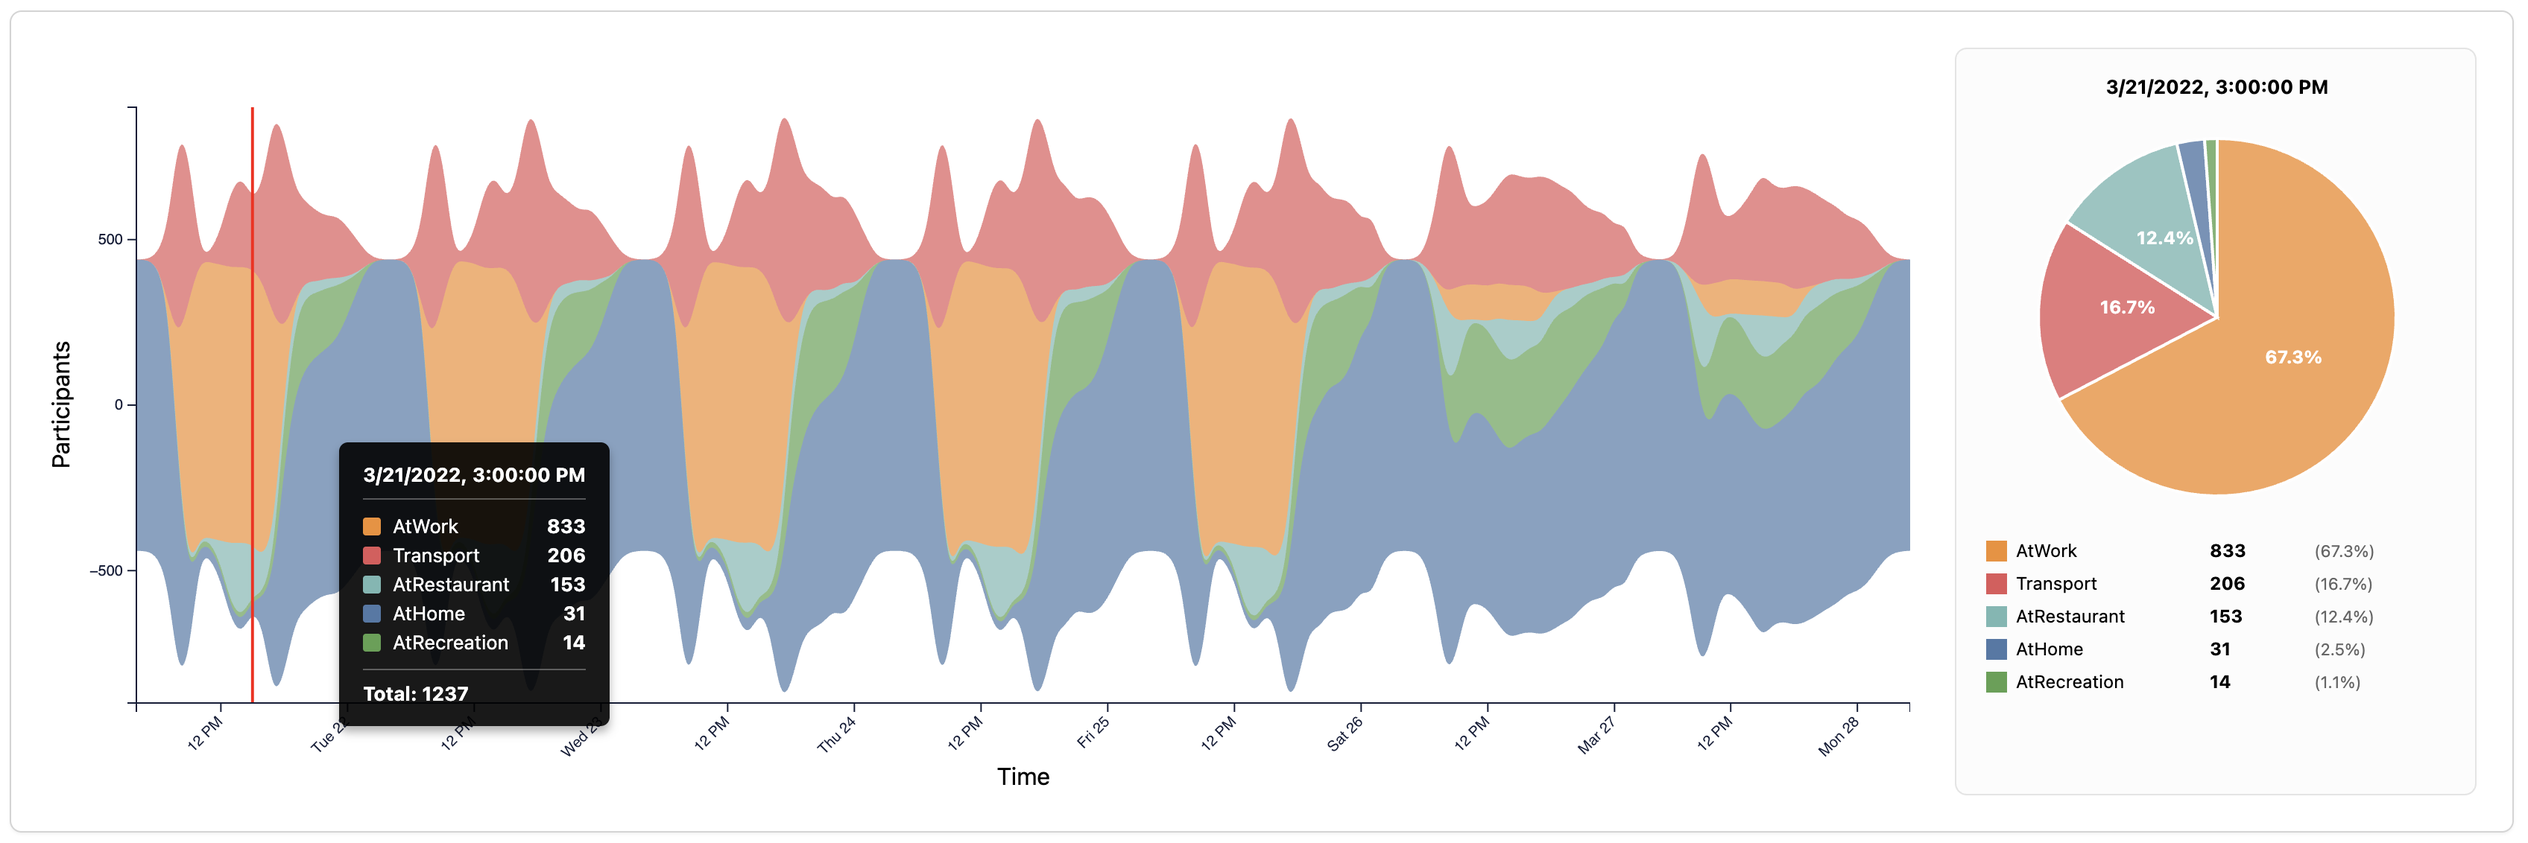
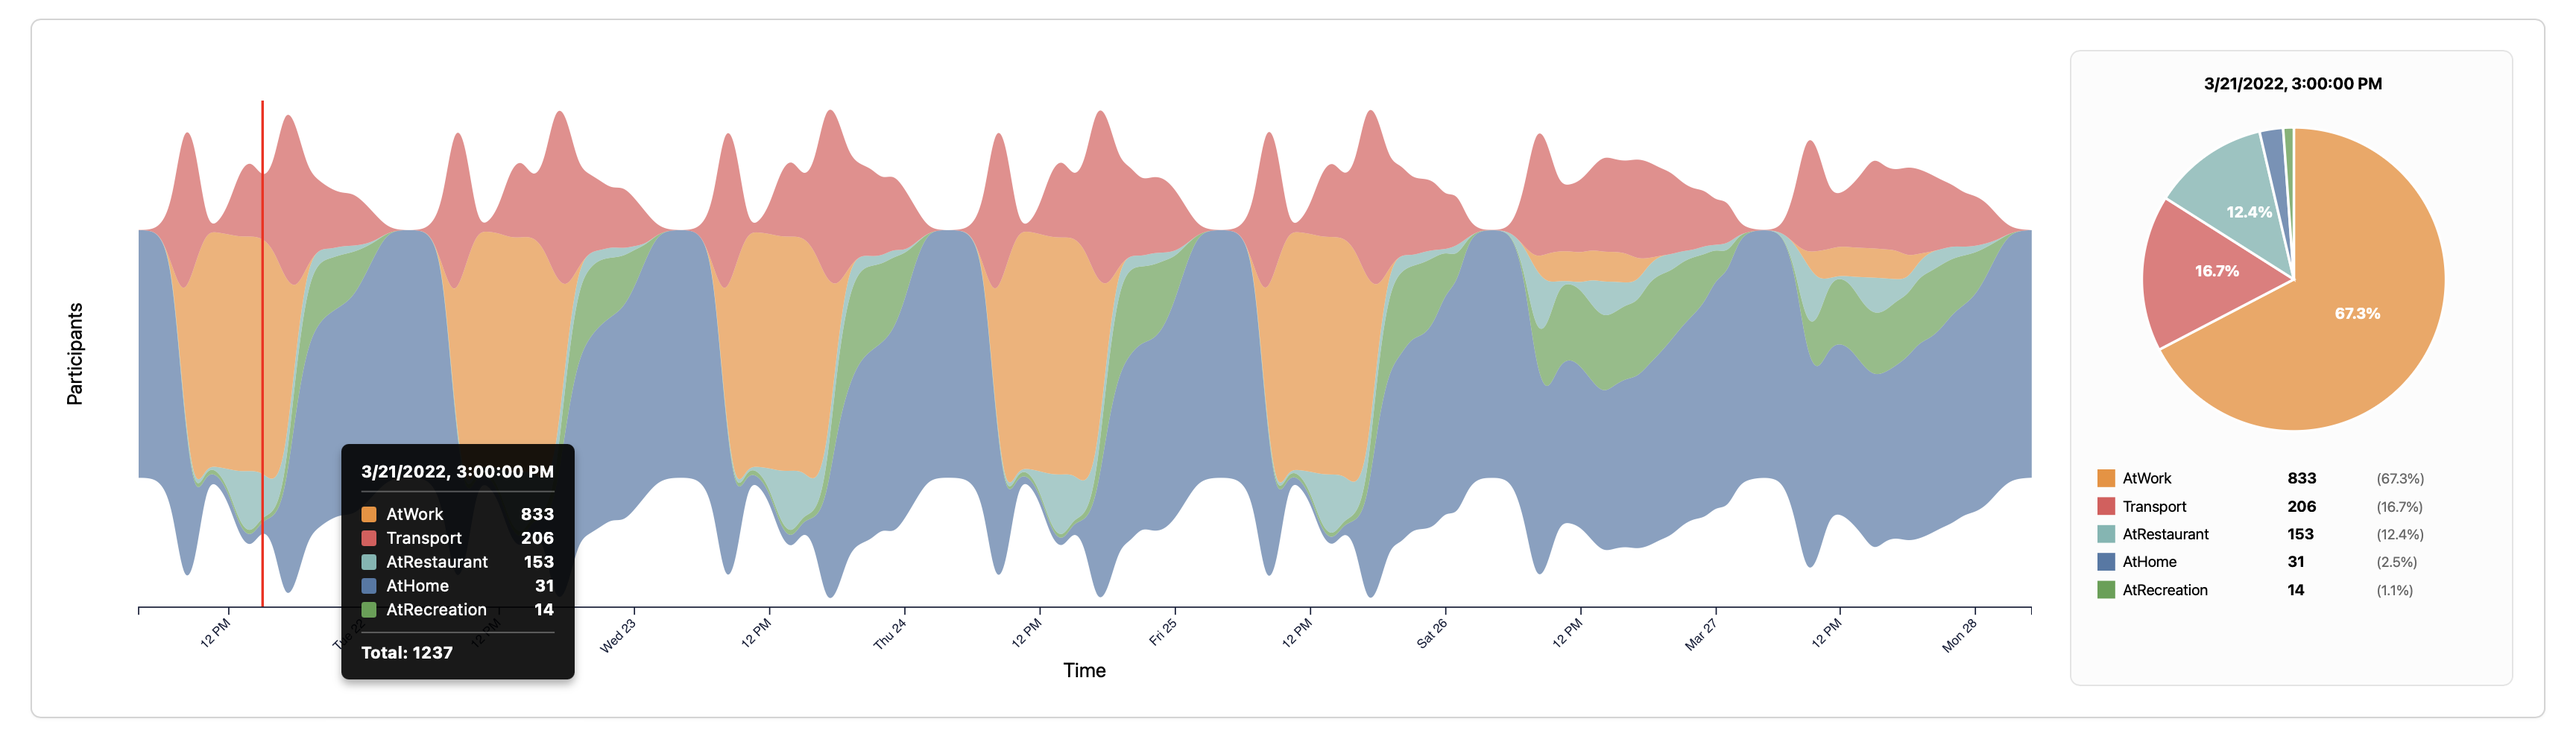
added images question 2

diff --git a/index.html b/index.html
@@ -65,6 +65,12 @@ a:visited {
     padding-bottom: 1pt;
     margin-bottom: 10pt;
 }
+
+.title {
+    font-weight: bold;
+    margin-top: 20pt;
+    margin-bottom: 10pt;
+}
 </style>
 </head>
 <body>
@@ -111,7 +117,7 @@ a:visited {
 
 <p class="calibri"><b>Questions</b></p>
 
-<p class="calibri"><b>1</b> - <span class="arial">Assuming the volunteers are representative of the city's population, characterize the distinct areas of the city that you identify. For each area you identify, provide your rationale and supporting data. Limit your response to 10 images and 500 words.</span></p>
+<p class="calibri title"><b>1</b> - <span class="arial">Assuming the volunteers are representative of the city's population, characterize the distinct areas of the city that you identify. For each area you identify, provide your rationale and supporting data. Limit your response to 10 images and 500 words.</span></p>
 
 <div class="indent">
 <p class="arial"><b>Overview</b></p>
@@ -155,7 +161,7 @@ a:visited {
 <p class="calibri center"><img src="img/morning_rush_hour_activity.png" alt="Morning Rush Hour Activity" width="512" height="512"></p>
 <p class="calibri center"><i>Figure 8. Morning rush hour activity showing movement patterns toward employment centers in zones B2-C3 and C3-E4.</i></p>
 
-<p class="calibri center"><img src="img/activity_streamgraph.png" alt="Temporal Activity Comparison" height="512"></p>
+<p class="calibri center"><img src="img/activity_streamgraph.png" alt="Temporal Activity Comparison" width="80%"></p>
 <p class="calibri center"><i>Figure 9. Side-by-side comparison of activity patterns at different times of day, illustrating the functional distinction between commercial and residential zones.</i></p>
 
 <p class="arial"><b>Summary</b></p>
@@ -202,7 +208,7 @@ a:visited {
 </table>
 </div>
 
-<p class="calibri"><b>2</b> - <span class="arial">Where are the busiest areas in Engagement? Are there traffic bottlenecks that should be addressed? Explain your rationale. Limit your response to 10 images and 500 words.</span></p>
+<p class="calibri title"><b>2</b> - <span class="arial">Where are the busiest areas in Engagement? Are there traffic bottlenecks that should be addressed? Explain your rationale. Limit your response to 10 images and 500 words.</span></p>
 
 <div class="indent">
 <p class="arial"><b>Overview</b></p>
@@ -279,7 +285,7 @@ a:visited {
 
 <p>&nbsp;</p>
 
-<p class="calibri"><b>3</b> - <span class="arial">Participants have given permission to have their daily routines captured. Choose two different participants with different routines and describe their daily patterns, with supporting evidence. Limit your response to 10 images and 500 words.</span></p>
+<p class="calibri title"><b>3</b> - <span class="arial">Participants have given permission to have their daily routines captured. Choose two different participants with different routines and describe their daily patterns, with supporting evidence. Limit your response to 10 images and 500 words.</span></p>
 
 <div class="indent">
 
@@ -333,7 +339,7 @@ a:visited {
 
 <p>&nbsp;</p>
 
-<p class="calibri"><b>4</b> - <span class="arial">Over the span of the dataset, how do patterns change in the city change? Describe up to 10 significant changes, with supporting evidence. Limit your response to 10 images and 500 words.</span></p>
+<p class="calibri title"><b>4</b> - <span class="arial">Over the span of the dataset, how do patterns change in the city change? Describe up to 10 significant changes, with supporting evidence. Limit your response to 10 images and 500 words.</span></p>
 
 <div class="indent">
 <p class="arial"><b>Overview</b></p>

diff --git a/vast-frontend/src/components/Heatmap/Heatmap.tsx b/vast-frontend/src/components/Heatmap/Heatmap.tsx
@@ -155,7 +155,7 @@ export function Heatmap({
           return d3.line()(points) + 'Z';
         })
         .attr('fill', (d) => getBuildingColor(d.building_type, theme))
-        .attr('opacity', 0.8)
+        .attr('opacity', MAP_CONFIG.heatmap.buildingOpacity)
         .attr('stroke', (d) => getBuildingColor(d.building_type, theme))
         .attr('stroke-width', 1)
         .style('pointer-events', 'none');

diff --git a/vast-frontend/src/config/map.config.ts b/vast-frontend/src/config/map.config.ts
@@ -49,8 +49,10 @@ export const MAP_CONFIG = {
     // Options: 'coral' (warm, energetic), 'slate' (cool, professional), 'mixed' (balanced)
     defaultColorScheme: 'coral' as ColorScheme,
 
+    buildingOpacity: 0.25,
+
     // Opacity for heatmap cells
-    opacity: 0.85,
+    opacity: 1,
 
     // Minimum count to display a cell (filter out noise)
     minCount: 1,

diff --git a/vast-frontend/src/components/Streamgraph/Streamgraph.tsx b/vast-frontend/src/components/Streamgraph/Streamgraph.tsx
@@ -243,10 +243,6 @@ export function Streamgraph({
       .attr('dy', '.15em')
       .attr('transform', 'rotate(-45)');
 
-    // Add Y axis
-    const yAxis = d3.axisLeft(yScale).ticks(5);
-    g.append('g').attr('class', 'y-axis').call(yAxis);
-
     // Add axis labels
     g.append('text')
       .attr('class', 'x-axis-label')
